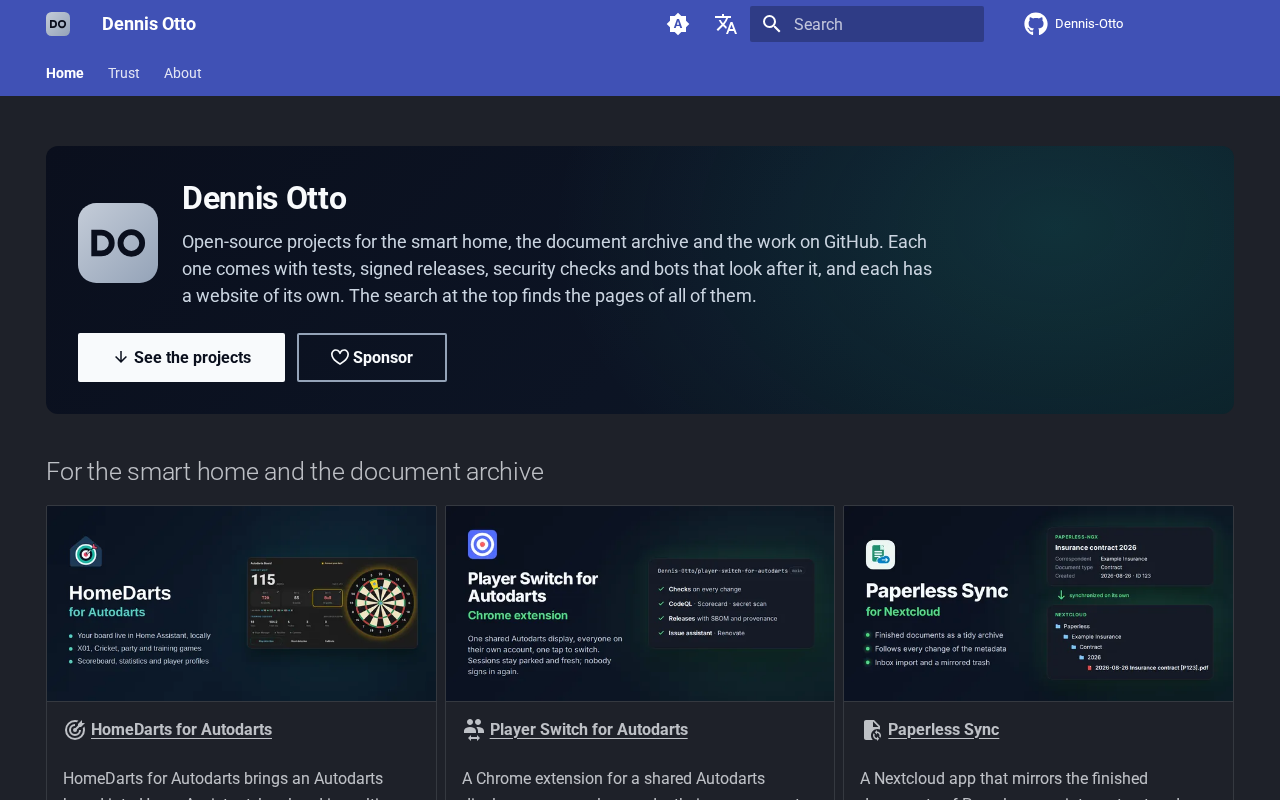
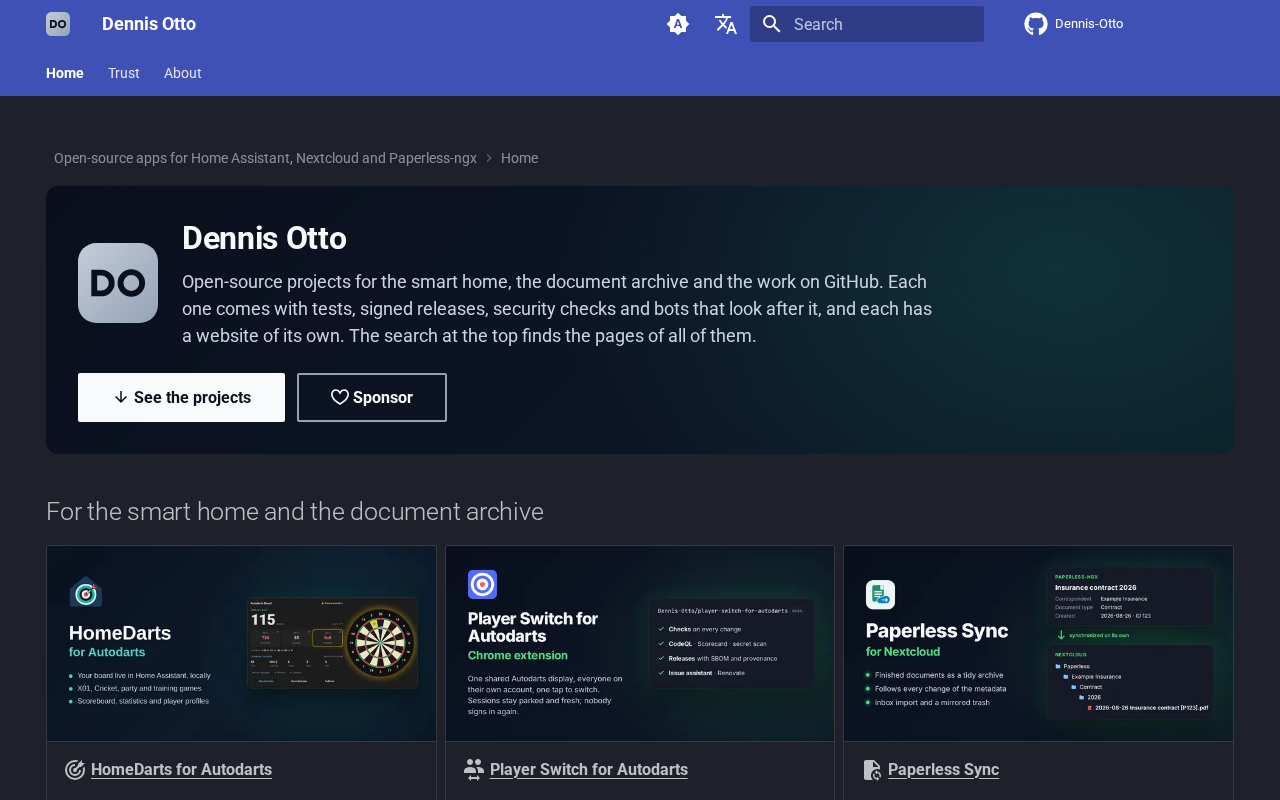
feat(pictures): renew the card pictures from the projects' social previews automatically (#87)
## Summary

The projects now renew their social previews on their own, but the
pictures of the hub's cards were copies that only a person renewed, and
a change of `projects.toml` or of the home page never started the
screenshot bot. Now the screenshot bot renews the card pictures with
every run, and a change of the home page or of its cards starts it on
`main`.

## Changes

- **`scripts/screenshots.sh`** runs `scripts/project-pictures.sh` first,
so the weekly, after-release and on-demand runs of the blueprint's
screenshot bot make every card picture anew from the social preview of
its repository on `main`. The README pictures then show the cards with
these pictures. The bot compares every picture by its pixels and keeps
unchanged files, so a run without a new preview changes nothing. I
checked this locally: a run against today's previews left every
`docs/images/projects/*.webp` byte for byte as committed.
- **`.github/screenshots-paths.txt`** (new) lists `projects.toml`,
`scripts/project-pictures.sh` and what makes the home page:
`docs/index*.md`, `docs/assets/**`, `docs/stylesheets/**`,
`docs/javascripts/**`, `overrides/**`, `mkdocs.yml`, the hooks
`.github/mkdocs_project.py` / `.github/mkdocs_blueprint.py` and the
blueprint theme files. The pictures themselves are left out on purpose,
so the merge of the bot's own pull request does not start another run.
- **`projects.toml`**: the `alt` texts of the cards now say what every
[…]

diff --git a/tests/test_mkdocs_project.py b/tests/test_mkdocs_project.py
@@ -238,9 +238,12 @@ def test_every_card_has_a_picture_from_the_social_preview_of_its_repository() ->
             continue
         assert project.picture is not None, project.slug
         assert project.picture.src == f"images/projects/{project.slug}.webp"
-        for alt in project.picture.alt.values():
+        for language, alt in project.picture.alt.items():
             # Says what the picture shows, not only the name of the project.
             assert len(alt) > len(project.name["en"]) + 20, alt
+            # The screenshot bot brings each new social preview without a person, so
+            # the alt says what every preview keeps, the name of the project first.
+            assert project.name[language] in alt, (project.slug, language)
     assert hooks.pictures(catalog).splitlines() == [
         f"{project.repo} docs/images/projects/{project.slug}.webp {project.license}"
         for project in catalog.projects
@@ -726,6 +729,88 @@ def test_the_readme_picture_names_the_first_group_and_its_projects() -> None:
     assert first.heading["en"] in alt[1]
     for project in catalog.members(first):
         assert project.name["en"] in alt[1], project.slug
+
+
+def test_the_screenshots_renew_the_card_pictures_before_they_show_them() -> None:
+    # The screenshot bot runs scripts/screenshots.sh every week, after every release
+    # and on demand, so the cards follow the social previews of the projects, and
+    # the pictures of the README show the cards with their new pictures.
+    text = (ROOT / "scripts" / "screenshots.sh").read_text(encoding="utf-8")
+    lines = text.splitlines()
+
+    renew = lines.index("bash scripts/project-pictures.sh")
+    build = next(i for i, line in enumerate(lines) if '"$mkdocs" build' in line)
+    assert renew < build
+
+
+def commit_all(root: Path, message: str) -> None:
+    """Commit every file of root, unsigned and by a test author."""
+    git = ["git", "-c", "user.name=Test", "-c", "user.email=test@example.com"]
+    subprocess.run([*git, "add", "--all"], cwd=root, check=True)
+    subprocess.run(
+        [*git, "-c", "commit.gpgsign=false", "commit", "--quiet", "-m", message],
+        cwd=root,
+        check=True,
+    )
+
+
+def screenshots_due(root: Path, path: str) -> bool:
+    """Whether the screenshot bot of the blueprint renders after a commit that
+    changes only path, asked as its workflow asks: `blueprint.py screenshots due`.
+    The bot runs in a process of its own: the blueprint tests it, and the coverage
+    of these tests is that of this project."""
+    file = root / path
+    file.parent.mkdir(parents=True, exist_ok=True)
+    file.write_text(f"A change of {path}.\n", encoding="utf-8")
+    commit_all(root, f"Change {path}")
+    run = subprocess.run(
+        [sys.executable, "-B", "-E", "-s", str(ROOT / ".github" / "blueprint.py"),
+         "screenshots", "due", "--since", "HEAD~1"],
+        cwd=root,
+        capture_output=True,
+        text=True,
+        encoding="utf-8",
+    )
+    # 0 renders, 1 doesn't; anything else, or a word on stderr, is an error.
+    assert run.returncode in (0, 1) and not run.stderr, run.stderr
+    return run.returncode == 0
+
+
+def test_a_change_of_the_home_page_or_its_cards_starts_the_screenshot_bot(
+    tmp_path: Path,
+) -> None:
+    # After a change of main, the bot renders only when the change touches a file
+    # of .github/screenshots-paths.txt.
+    for path in (".github/screenshots-paths.txt", "scripts/screenshots.sh"):
+        (tmp_path / path).parent.mkdir(parents=True, exist_ok=True)
+        shutil.copyfile(ROOT / path, tmp_path / path)
+    subprocess.run(["git", "init", "--quiet"], cwd=tmp_path, check=True)
+    commit_all(tmp_path, "Base")
+
+    for path in (
+        "projects.toml",
+        "scripts/project-pictures.sh",
+        "scripts/screenshots.sh",
+        "docs/index.md",
+        "docs/index.de.md",
+        "docs/assets/logo.svg",
+        "docs/stylesheets/extra.css",
+        "docs/javascripts/projects.js",
+        "overrides/home.html",
+        "mkdocs.yml",
+        ".github/mkdocs_project.py",
+        ".github/mkdocs-blueprint.css",
+    ):
+        assert screenshots_due(tmp_path, path), path
+    # The pictures that the bot commits start no run of their own, and neither does
+    # a page that the pictures don't show.
+    for path in (
+        "docs/images/projects/homedarts-for-autodarts.webp",
+        "docs/images/website-light.png",
+        "docs/about.md",
+        "README.md",
+    ):
+        assert not screenshots_due(tmp_path, path), path
 
 
 @pytest.mark.parametrize("script", ["icons.sh", "screenshots.sh"])

diff --git a/README.md b/README.md
@@ -105,7 +105,7 @@ python3 -I .github/mkdocs_project.py --network repositories.json
 A new project, such as one that the catalog bot reports, needs its entry in projects.toml and its pictures; the rest follows from them.
 
 1. Add a `[[project]]` to [projects.toml](projects.toml), where its card belongs: its group, its texts in English and German, its picture and its links, what it works with in `requires`, best from the file of its repository that holds the versions, and for a project whose releases carry a package, its `asset`, which the commands of the Trust page check. The comments at the top of the file describe every key.
-2. Make the picture of its card from the social preview of its repository, and describe what the picture shows in its `alt` texts:
+2. Make the picture of its card from the social preview of its repository, and write its `alt` texts as those of the other cards: with the name of the project and what every preview keeps, as [the pictures renew themselves](#the-pictures-renew-themselves) from then on:
 
    ```sh
    bash scripts/project-pictures.sh
@@ -118,7 +118,7 @@ A new project, such as one that the catalog bot reports, needs its entry in proj
    ```
 
 4. Name the project where the projects are still written by hand: the websites under boundary 4 and the table under *Report a vulnerability* of [docs/security.md](docs/security.md) and [docs/security.de.md](docs/security.de.md), and a link to the issues of its repository in the issue chooser, [.github/ISSUE_TEMPLATE/config.yml](.github/ISSUE_TEMPLATE/config.yml). No other text lists the projects or says how many websites there are, so a new project changes nothing else, and an accepted decision record stays as it is; a test fails on a number of websites in the texts.
-5. Run the checks, look at the card in the [preview](#how-the-website-works), and take the pictures at the top of this README anew. When the project joins the first group of the home page, or the hero changed, describe what the pictures show in the `alt` of the picture at the top of this README; a test checks that it names the first group and each of its projects:
+5. Run the checks and look at the card in the [preview](#how-the-website-works). The screenshot bot takes the pictures at the top of this README anew once the change is on `main`, and `bash scripts/screenshots.sh` shows them before. When the project joins the first group of the home page, or the hero changed, describe what the pictures show in the `alt` of the picture at the top of this README; a test checks that it names the first group and each of its projects:
 
    ```sh
    bash scripts/check.sh
@@ -158,12 +158,31 @@ The pictures of the website and of this README come from scripts, so that a new 
 
 | Command | What it makes |
 | --- | --- |
-| `bash scripts/project-pictures.sh` | The picture of every card with a repository, from the social preview of that repository on `main`: a WebP of 640×320 pixels, about 15 KB, in `docs/images/projects/`, with a `.license` file beside it that names the license of the repository for REUSE. Run it when a project has a new social preview, and describe the new picture in its `alt` texts. |
+| `bash scripts/project-pictures.sh` | The picture of every card with a repository, from the social preview of that repository on `main`: a WebP of 640×320 pixels, about 15 KB, in `docs/images/projects/`, with a `.license` file beside it that names the license of the repository for REUSE. `scripts/screenshots.sh` runs it first, so the screenshot bot renews the pictures on its own; run it yourself for the picture of a new card. |
 | `bash scripts/icons.sh` | `docs/favicon.ico` with 16, 32 and 48 pixels and `docs/apple-touch-icon.png` with 180, from the monogram in [docs/assets/logo.svg](docs/assets/logo.svg), which is the logo of the header and the icon of the browser tab too. Browsers ask the root of the address for both, for every website at `dennis-otto.github.io`. It renders [.github/icons.html](.github/icons.html) with the Chromium of Playwright in Docker. |
-| `bash scripts/screenshots.sh` | The pictures at the top of this README: the home page as a reader first sees it, 1280×800 pixels, as `docs/images/website-light.png` and `docs/images/website-dark.png`. It builds the website strictly and shows it to the Chromium of Playwright in Docker, served on the loopback of the container without a network, once in the light and once in the dark colors, as the theme follows the reader's system. Run it after a change of the home page, of a project or of the theme, and describe what the pictures show in the `alt` of the picture at the top of this README. The website leaves both pictures out. |
+| `bash scripts/screenshots.sh` | The pictures of the cards, with `scripts/project-pictures.sh` first, and the pictures at the top of this README: the home page as a reader first sees it, 1280×800 pixels, as `docs/images/website-light.png` and `docs/images/website-dark.png`. It builds the website strictly and shows it to the Chromium of Playwright in Docker, served on the loopback of the container without a network, once in the light and once in the dark colors, as the theme follows the reader's system. The screenshot bot runs it on its own; run it yourself to see what a change of the home page, of a project or of the theme changes, and describe what the pictures show in the `alt` of the picture at the top of this README when the first group changes. The website leaves both pictures out. |
 | `bash scripts/social-preview.sh` | `.github/social-preview.png`, the picture of links to this repository, from [.github/social-preview.html](.github/social-preview.html): the monogram and a collage of the pictures of the projects. Upload it under *Settings → General → Social preview*. |
 
 [REUSE.toml](REUSE.toml) gives every file the MIT license of this repository, and REUSE adds that license to the one of a `.license` file instead of replacing it. So `reuse spdx` names both licenses for each picture of a project, until the blueprint, which owns REUSE.toml, lets a `.license` file win.
+
+#### The pictures renew themselves
+
+The projects renew their social previews on their own, and the pictures of the cards and of this README follow without a person. The screenshot bot of the blueprint, [.github/workflows/screenshot-bot.yml](.github/workflows/screenshot-bot.yml), runs `bash scripts/screenshots.sh` every Friday, after every release of this repository, when started by hand, and after every change of `main` that touches a file of [.github/screenshots-paths.txt](.github/screenshots-paths.txt): projects.toml, the script of the pictures of the cards, and what makes the home page, its pages, templates, styles, scripts, logo and hooks. The script first runs `bash scripts/project-pictures.sh`, so that every card gets the social preview that the repository of its project has on `main`, and then takes the pictures at the top of this README with these cards.
+
+The bot compares each picture with the one of `main` by its pixels and keeps the committed file of every picture that looks the same, so a run without a new preview or a change of the home page changes nothing. When pixels changed, one pull request from `bot/screenshots`, *docs: update the screenshots*, brings the new pictures with the share of the pixels that changed in each, and merges itself once every check passes. A new preview reaches the website within a week, or at once after a start by hand:
+
+```sh
+gh workflow run screenshot-bot.yml
+```
+
+The `alt` texts of the cards in projects.toml say what every social preview keeps: the icon and the name of the project and what it does, beside a picture of the project. They leave out what that picture shows today, such as the score of a game of darts, which the next preview may change, and a test checks that each one names its project.
+
+Only the picture of links to this repository itself, `.github/social-preview.png`, stays a step for a person: it is a collage of the pictures of the cards, and GitHub takes it only as an upload under *Settings → General → Social preview*, so after new card pictures run `bash scripts/social-preview.sh` and upload it, as step 6 of [Add a project](#add-a-project) says.
+
+<picture>
+  <source media="(prefers-color-scheme: dark)" srcset="docs/images/diagrams/the-pictures-renew-themselves.dark.svg">
+  <img src="docs/images/diagrams/the-pictures-renew-themselves.svg" alt="The pictures renew themselves: Every week, after every release, on demand and after a change of main that touches a file of .github/screenshots-paths.txt, such as projects.toml, the screenshot bot runs scripts/screenshots.sh. It first runs scripts/project-pictures.sh, which makes the picture of every card anew from the social preview of its repository on main, and then takes the home page with these cards in the light and the dark colors for the top of README.md. The bot compares every picture with the one of main by its pixels. When pixels changed, one pull request from bot/screenshots brings the new pictures and merges itself once every check passes; when none changed, nothing changes.">
+</picture>
 
 ### One address, every website
 

diff --git a/changelog.d/n-dgh-pictures-follow.md b/changelog.d/n-dgh-pictures-follow.md
@@ -1,0 +1,3 @@
+### Features
+
+- **The cards follow the projects:** the picture of every card on the home page now renews itself from the social preview of its project. The screenshot bot makes the pictures anew every week, after every release and when started by hand, and one pull request brings every picture that looks different, together with the pictures at the top of the README, which a change of the projects or of the home page now renews too. The texts that describe the pictures for those who can't see them say what every preview keeps, so they stay true when a picture changes.
